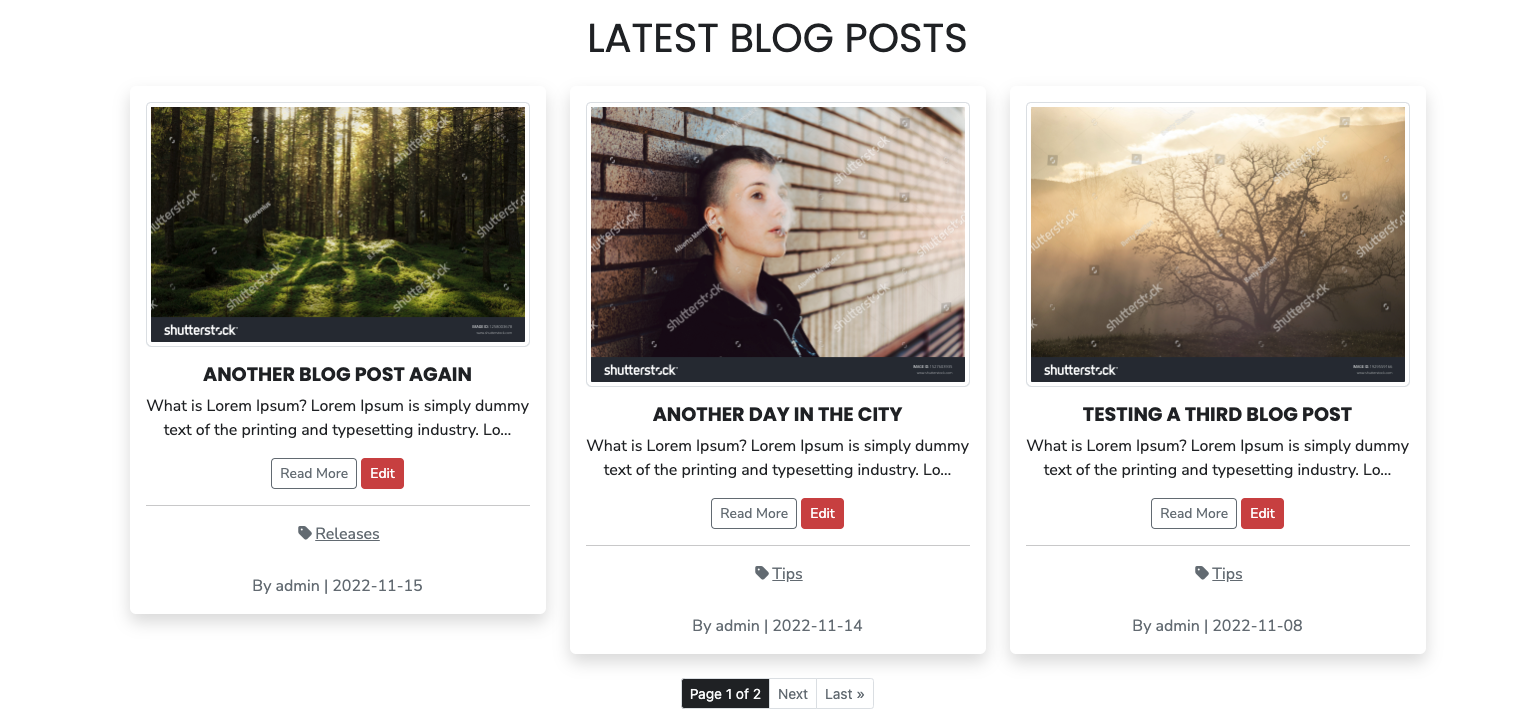
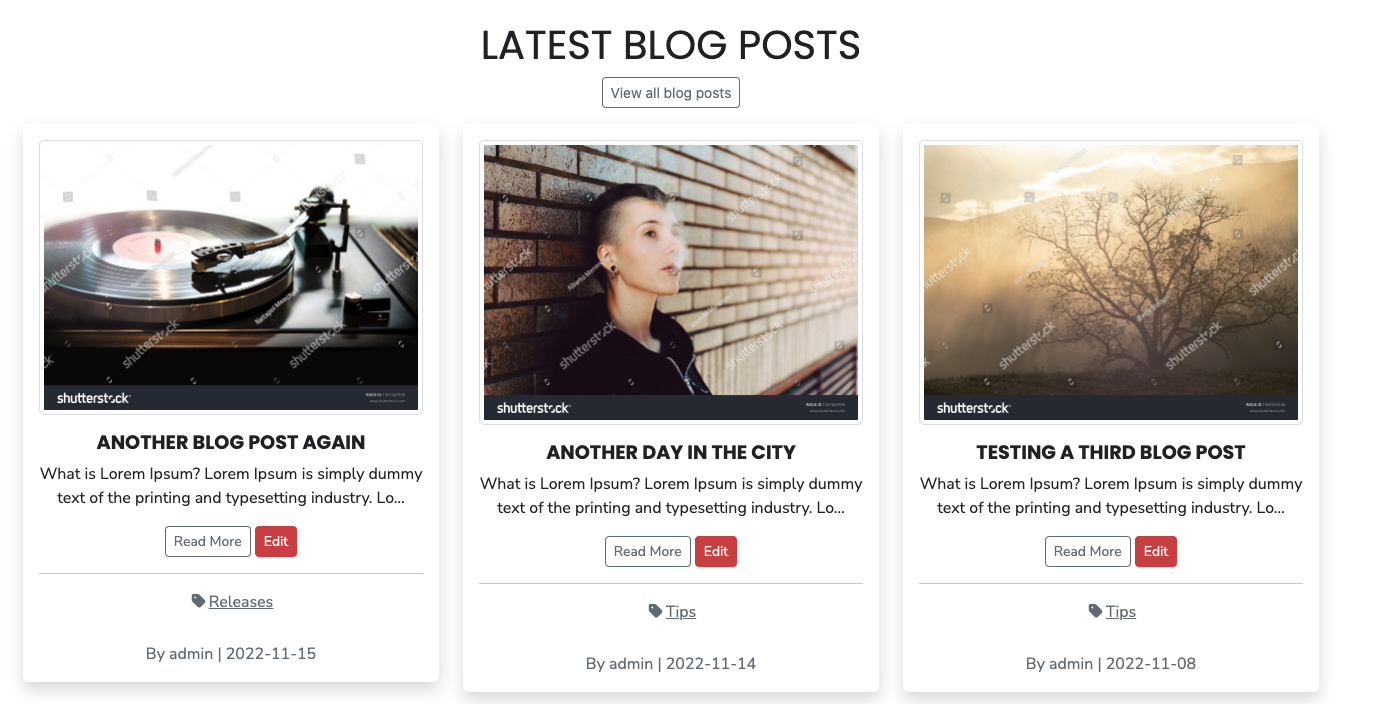
Add styling to faq answers on faq.html

diff --git a/home/templates/home/faq.html b/home/templates/home/faq.html
@@ -8,16 +8,19 @@
     <h2 class="my-5">About Kollektiv Fem</h2>
     <div class="text-center faq text-uppercase my-5">
         <p class="my-4 fw-bold">What are you selling?</p>
-        <p>Kollektiv Fem sells everything from vinyl records, cds, cassettes, t-shirts to tote bags, pins, tank tops,
+        <p class="faq-answers">Kollektiv Fem sells everything from vinyl records, cds, cassettes, t-shirts to tote bags,
+            pins, tank tops,
             you name it! The list is long!
         </p>
         <p class="my-4 fw-bold">What does the guarantee cover?
-            <p>We only ship high quality items and if you aren't happy, just contact us and we will handle it. For most
+            <p class="faq-answers">We only ship high quality items and if you aren't happy, just contact us and we will
+                handle it. For most
                 products the items have a 1 year guarantee.
             </p>
         </p>
         <p class="my-4 fw-bold">How can I contact Kollektiv Fem?</p>
-        <p>Our location is Umeå in the north of Sweden but it's very cold here most time of the year, so it's more
+        <p class="faq-answers">Our location is Umeå in the north of Sweden but it's very cold here most time of the
+            year, so it's more
             comfortable to hang out
             with
             us here on the web (try <a href="https://facebook.com/kollektivfem.se" target=_blank class="text-dark">our
@@ -29,13 +32,15 @@
             <h2 class="my-5">Security & Payment Methods</h2>
             <div class="text-center faq text-uppercase">
                 <p class="my-2 fw-bold">Is your site secure?</p>
-                <p>The short answer is yes. If you look on our web address you can see the letter S (secure) after http
+                <p class="faq-answers">The short answer is yes. If you look on our web address you can see the letter S
+                    (secure) after http
                     which indicates that the site is using Secure Sockets Layer (SSL) Certification. This means that all
                     communication between you and our site is encrypted. But it is still very important that you keep
                     track of your password and so on so, that's your responsibility.
                 </p>
                 <p class="my-2 fw-bold">How can I get hold of a discount code?</p>
-                <p>If you sign-up to our newsletter in the bottom of the page (in the footer) and you will get, besides
+                <p class="faq-answers">If you sign-up to our newsletter in the bottom of the page (in the footer) and
+                    you will get, besides
                     discount codes now and then, a lot of exciting information of what's going on at Kollektiv Fem.
                 </p>
             </div>
@@ -45,15 +50,15 @@
             <div class="text-center faq text-uppercase">
                 <h2 class="my-5">Shipping & Returns</h2>
                 <p class="my-2 fw-bold">What time will the products be dispatched?</p>
-                <p>We generally ship your order within a week.
+                <p class="faq-answers">We generally ship your order within a week.
                 </p>
                 <p class="my-2 fw-bold"> Where do your items come from?</p>
-                <p>All our items are manufactured in Umeå, Sweden.
+                <p class="faq-answers">All our items are manufactured in Umeå, Sweden.
                 </p>
 
                 <p class="my-2 fw-bold">What about your return policy?</p>
 
-                <p>
+                <p class="faq-answers">
                     You can return the product within 10 days of delivery for full refund. It's important that the item
                     is in its original condition. If something is not wrong with the product you pay the shipping to us
                     by yourself.

diff --git a/static/css/style.css b/static/css/style.css
@@ -39,11 +39,6 @@ h6 {
     font-size: 15px;
 }
 
-.faq {
-    font-family: 'Cousine', monospace;
-    font-size: 20px;
-}
-
 .img-zoom {
     overflow: hidden;
 }
@@ -293,6 +288,20 @@ input[type=email]:focus {
     height: 1000px;
     overflow-x: hidden;
     overflow-y: auto;
+}
+
+/* ==================
+   faq
+   ================== */
+
+.faq {
+    font-family: 'Cousine', monospace;
+    font-size: 20px;
+}
+
+.faq-answers {
+    font-family: 'Cousine', monospace;
+    font-size: 15px;
 }
 
 /* ==============

diff --git a/blog/templates/blog/edit_blog_post.html b/blog/templates/blog/edit_blog_post.html
@@ -35,7 +35,7 @@
                     <strong>"{{ search_term }}"</strong>{% endif %}
                 </p>
             </div>
-            <div class="product-list-wrapper mt-3">
+            <div class="blog-list-wrapper mt-3">
                 <table class="table table-sm table-text">
                     <thead>
                         <tr>

diff --git a/README.md b/README.md
@@ -414,7 +414,7 @@ The home page contains a carousel with two images and the latest blog posts.
 ![Carousel 2](readme/assets/images/carousel_2.png)
 </details><br/>
 
-**Blog Area** - The blog area shows the three latest blog posts. When there are more than three blog posts it's possible for the user to use the pagination option to switch to the next three blog posts. When a site user clicks on the blog post a blog detail view is being shown. If admin is logged in there is a possibility to go to the edit blog management page from the blog area and the blog detail view (via the edit button)
+**Blog Area** - The blog area shows the three latest blog posts. Above the posts there is a button that takes the user to a specific page where all the posts are being listed (the same view opens if the user clicks the 'category'-tag under the read more button, but then only blog posts with that specific category is being shown). When a site user clicks on the blog post a blog detail view is being shown. If admin is logged in there is a possibility to go to the edit blog management page from the blog area and the blog detail view (via the edit button)
 
 <details><summary><b>Blog Area</b></summary>
 
@@ -424,6 +424,18 @@ The home page contains a carousel with two images and the latest blog posts.
 <details><summary><b>Blog Detail</b></summary>
 
 ![Blog Area](readme/assets/images/blog_detail.png)
+</details><br/>
+
+**Blog - View All Blog Posts** - The View All Blog Posts Page lists all blog posts 9 at a time (before the pagination is activated). If the user has clicked the 'category' tag only blog posts with that specific category will be listed (i.e. 'Tips'). From this view it is also possible to access the blog detail page via the read more button and admin can also access the blog management via the edit button. In the bottom of the page there is also a back to home button that takes the user to the index page.
+
+<details><summary><b>Blog - View All Blog Posts</b></summary>
+
+![Blog - View All Blog Posts](readme/assets/images/blog_view_all.png)
+</details><br/>
+
+<details><summary><b>Blog View Blog Posts Witch Category 'Tips'</b></summary>
+
+![Blog Area](readme/assets/images/blog_view_tips.png)
 </details><br/>
 
 ### **Products**
@@ -520,7 +532,7 @@ When the user clicks sign out in the menu bar a confirmation page is being showe
 </details><br/>
 
 ### **Footer**
-The footer area includes short information about Kollektiv Fem, links to relevant social media, a newsletter signup form (through MailChimp), a link to Kollektiv Fem on the web and a link to Kollektiv Fems privacy policy.
+The footer area includes short information about Kollektiv Fem, links to relevant social media, a newsletter signup form (through MailChimp), a link to Kollektiv Fem on the web, a link to Kollektiv Fems privacy policy and a link to Kollektiv Fems FAQ:s.
 
 <details><summary><b>Footer</b></summary>
 
@@ -534,6 +546,7 @@ The footer area includes short information about Kollektiv Fem, links to relevan
 ![Newsletter Error 1](readme/assets/images/newsletter_error_1.png)
 ![Newsletter Error 2](readme/assets/images/newsletter_error_2.png)
 ![Privacy Policy](readme/assets/images/privacy_policy.png)
+![Privacy Policy](readme/assets/images/faq.png)
 </details><br/>
 
 ### **Visual Feedback To The User**
